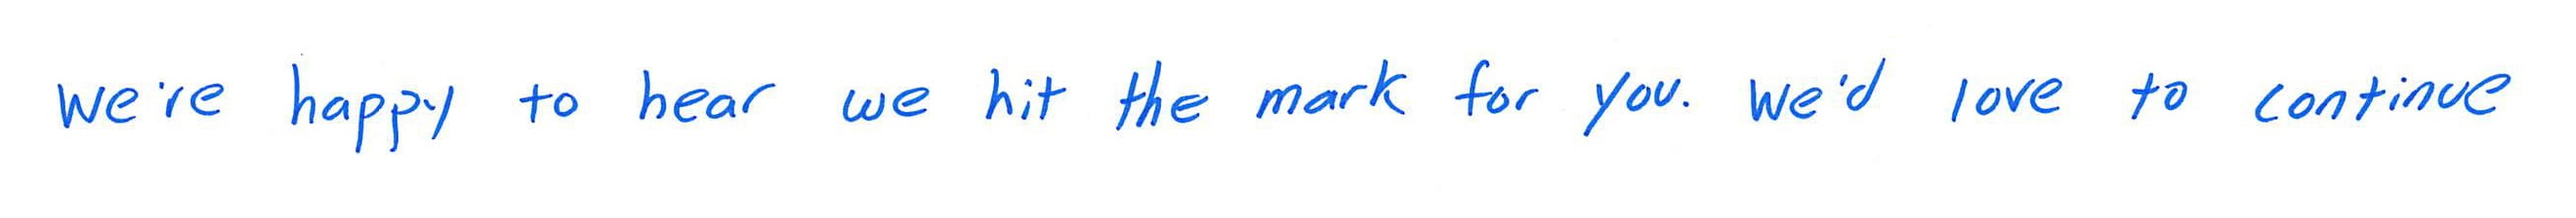
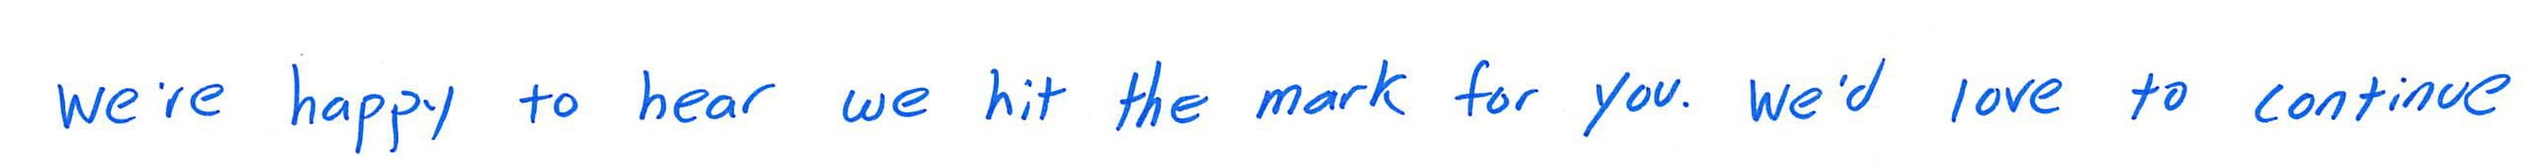
Font redesign

Changed region(s): [[0.0, 0.3235, 1.0, 0.8529], [0.5568, 0.2647, 0.5878, 0.3235], [0.1237, 0.8529, 0.1547, 0.8824]]

diff --git a/index.html b/index.html
@@ -19,8 +19,9 @@
 	<title>Supertech HVAC - Thank you</title>
 
 	<!-- Google Fonts Link -->
-	<link href="https://fonts.googleapis.com/css?family=Open+Sans:300,400,600,700" rel="stylesheet" />
-	<link href='https://fonts.googleapis.com/css?family=Roboto' rel='stylesheet'><style>
+
+	<link href='https://fonts.googleapis.com/css?family=Caveat' rel='stylesheet'><style>
+
 	<style type="text/css">
 
 		/*------ Client-Specific Style ------ */
@@ -116,7 +117,7 @@
 						<tr>
 							<td align="center" valign="top" style="padding-bottom: 5px; padding-left: 20px; padding-right: 20px;" class="mainTitle">
 								<!-- Main Title Text // -->
-								<h2 class="text" style="color:#000000; font-family:'Open Sans', Helvetica, Arial, sans-serif; font-size:18px; font-weight:500; font-style:normal; letter-spacing:normal; line-height:25px; text-transform:none; text-align:center; padding:0; margin:0">Thank you so much for taking the time and leave a great rating. We're happy to hear we hit the mark for you. We'd love to continue providing great service to amazing family like yours.</h2>
+								<h2 class="text" style="color:#0000ff; font-family:'Caveat', Helvetica, Arial, sans-serif; font-size:22px; font-weight:100; font-style:normal; letter-spacing:normal; line-height:25px; text-transform:none; text-align:center; padding:0; margin:0">Thank you so much for taking the time and leave a great rating. We're happy to hear we hit the mark for you. We'd love to continue providing great service to amazing family like yours.</h2>
 							</td>
 						</tr>
 						
@@ -132,7 +133,7 @@
 						<tr>
 							<td align="center" valign="top" style="padding-bottom: 5px; padding-left: 20px; padding-right: 20px;" class="mainTitle1">
 								<!-- Main Title Text // -->
-								<h2 class="text" style="color:#000000; font-family: 'Caveat', cursive, Helvetica, Arial, sans-serif; font-size:22px; font-weight:500; font-style:normal; letter-spacing:normal; line-height:25px; text-transform:none; text-align:center; padding:0; margin:0">It means so much when our best customers share their experiences. If you are willing to do so, just click the button below.</h2>
+								<h2 class="text" style="color:#0000ff; font-family: 'Caveat', cursive, Helvetica, Arial, sans-serif; font-size:22px; font-weight:100; font-style:normal; letter-spacing:normal; line-height:25px; text-transform:none; text-align:center; padding:0; margin:0">It means so much when our best customers share their experiences. If you are willing to do so, just click the button below.</h2>
 							</td>
 						</tr>
 								</tbody></table>
